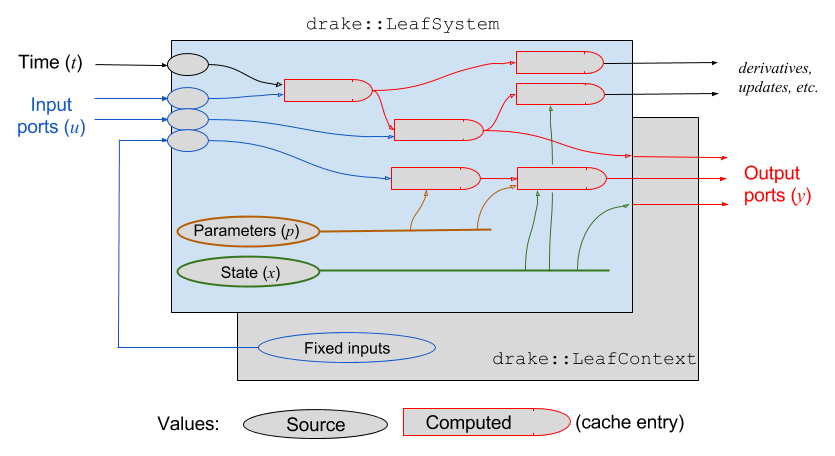
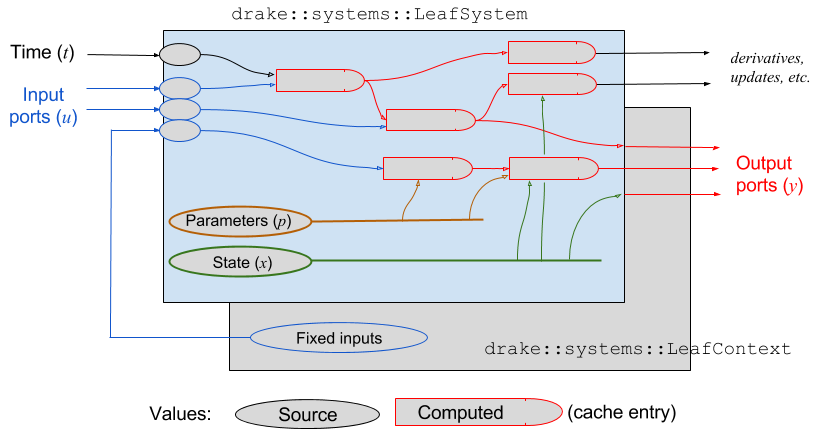
Updates per reviewer comments.

diff --git a/systems/framework/cache_doxygen.h b/systems/framework/cache_doxygen.h
@@ -1,4 +1,9 @@
-//------------------------------------------------------------------------------
+#pragma once
+
+// Putting this document in drake::systems namespace makes the links work.
+namespace drake {
+namespace systems {
+
 /** @defgroup cache_design_notes System Cache Design and Implementation Notes
 
 <!-- Fluff needed to keep Doxygen from misformatting due to quotes and
@@ -10,17 +15,18 @@
                                 </center>
 @endparblock
 
+@warning DRAFT -- to be reviewed along with caching code. The text here refers
+to objects that are not yet in Drake's master branch.
+
 <h2>Background</h2>
 
-Drake @link drake::systems::System Systems @endlink
-are used to specify the computational _structure_ of a model to be
-studied. The actual _values_ during computation are stored in a separate
-@link drake::systems::Context Context @endlink object. The Context contains
-_source_ values (time, parameters, states, input
-ports) and _computed_ values (e.g. derivatives, output ports)
-that depend on some or all of the source values. We
-call the particular dependencies of a computed value its _prerequisites_. The
-caching system described here manages computed values so that
+Drake System objects are used to specify the computational _structure_ of a
+model to be studied. The actual _values_ during computation are stored in a
+separate Context object. The Context contains _source_ values (time, parameters,
+states, input ports) and _computed_ values (e.g. derivatives, output ports)
+that depend on some or all of the source values. We call the particular
+dependencies of a computed value its _prerequisites_. The caching system
+described here manages computed values so that
  - they are recomputed _only if_ a prerequisite has changed,
  - they are marked out of date _whenever_ a prerequisite changes, and
  - _every_ access to a computed value first ensures that it is up to date.
@@ -41,7 +47,8 @@ goals also influenced the design. Here are the main goals in roughly descending
 order of importance.
  1. Must be correct (same result with caching on or off).
  2. Must be fast.
- 3. Must preserve independence of System and Context objects (e.g., no cross-pointers).
+ 3. Must preserve independence of System and Context objects (e.g., no
+    cross-pointers).
  4. Should provide a simple conceptual model and API for users.
  5. Should treat all value sources and dependencies in Drake uniformly.
  6. Should be backwards compatible with the existing API.
@@ -64,18 +71,14 @@ Several follow-ons are possible to improve this:
 This is the basic architecture Drake uses to address the above design goals.
 
 Every declared source and computed value is assigned a small-integer
-@link drake::systems::DependencyTicket DependencyTicket @endlink
-(“ticket”) by the System (unique within a subsystem). The
-Context contains corresponding
-@link drake::systems::DependencyTracker DependencyTracker @endlink
-("tracker") objects that manage that
-value’s downstream dependents and upstream prerequisites; these can be accessed
-efficiently using the ticket. Cached computations are declared and accessed
-through System-owned @link drake::systems::CacheEntry CacheEntry @endlink
-objects; their values are stored in Context-owned
-@link drake::systems::CacheEntryValue CacheEntryValue @endlink
-objects whose validity with respect to source values is rigorously tracked via
-their associated dependency trackers. Computed values may in turn serve as
+DependencyTicket (“ticket”) by the System (unique within a subsystem). The
+Context contains corresponding DependencyTracker ("tracker") objects that manage
+that value’s downstream dependents and upstream prerequisites; these can be
+accessed efficiently using the ticket. Cached computations are declared and
+accessed through System-owned CacheEntry objects; their values are stored in
+Context-owned CacheEntryValue objects whose validity with respect to
+source values is rigorously tracked via their associated dependency
+trackers. Computed values may in turn serve as
 source values for further computations. A change to a source value invalidates
 any computed values that depend on it, recursively. Any value contained in a
 Context may be exported via an output port that exposes that value to downstream
@@ -95,8 +98,7 @@ From a user perspective:
    change.
 
 Figure 1 below illustrates the computational structure of a Drake LeafSystem,
-paired with its LeafContext. A Drake
-@link drake::systems::Diagram Diagram @endlink interconnects subsystems like
+paired with its LeafContext. A Drake Diagram interconnects subsystems like
 these by connecting output ports of subsystems to input ports of other
 subsystems, and aggregates results such as derivative calculations. When
 referring to individual Systems within a diagram, we use the terms
@@ -107,7 +109,7 @@ referring to individual Systems within a diagram, we use the terms
 
 /* Looks something like this ...
 
-                            drake::LeafSystem
+                       drake::systems::LeafSystem
                 ┌─────────────────────────────────────┐
     time ------>│>------.          ┌───────┐    ···---│--->  derivatives,
                 │       `--------->│cache  │----------│--->  updates, etc.
@@ -120,8 +122,9 @@ referring to individual Systems within a diagram, we use the terms
            |    └─────────────────────────────────────┘      │
            |           │                                     │
            └<----------│-(Fixed input)                       │
-                       │                  drake::LeafContext │
+                       │                                     │
                        └─────────────────────────────────────┘
+                             drake::systems::LeafContext
 */
 
 /** @addtogroup cache_design_notes  <!-- continuing on -->
@@ -210,9 +213,8 @@ Fixed input ports are treated identically to Parameters -- they may have
 numerical or abstract value types; they may be changed with downstream
 invalidation handled automatically; and their values do not change during a
 time-advancing simulation. The values for fixed input ports are represented by
-@link drake::systems::FreestandingInputPortValue FreestandingInputPortValue
-@endlink objects, which have their own ticket and tracker to which the
-corresponding input port subscribes.
+FreestandingInputPortValue objects, which have their own ticket and tracker to
+which the corresponding input port subscribes.
 
 Every input port has an associated dependency ticket and tracker. The tracker
 is automatically subscribed to the input port’s source’s tracker.
@@ -398,3 +400,6 @@ declarations which accept Allocator() and Calculator() functors and a
 dependency list for the Calculator(). Currently they are just defaulting to
 “depends on everything”.
 */
+
+}  // namespace systems
+}  // namespace drake
